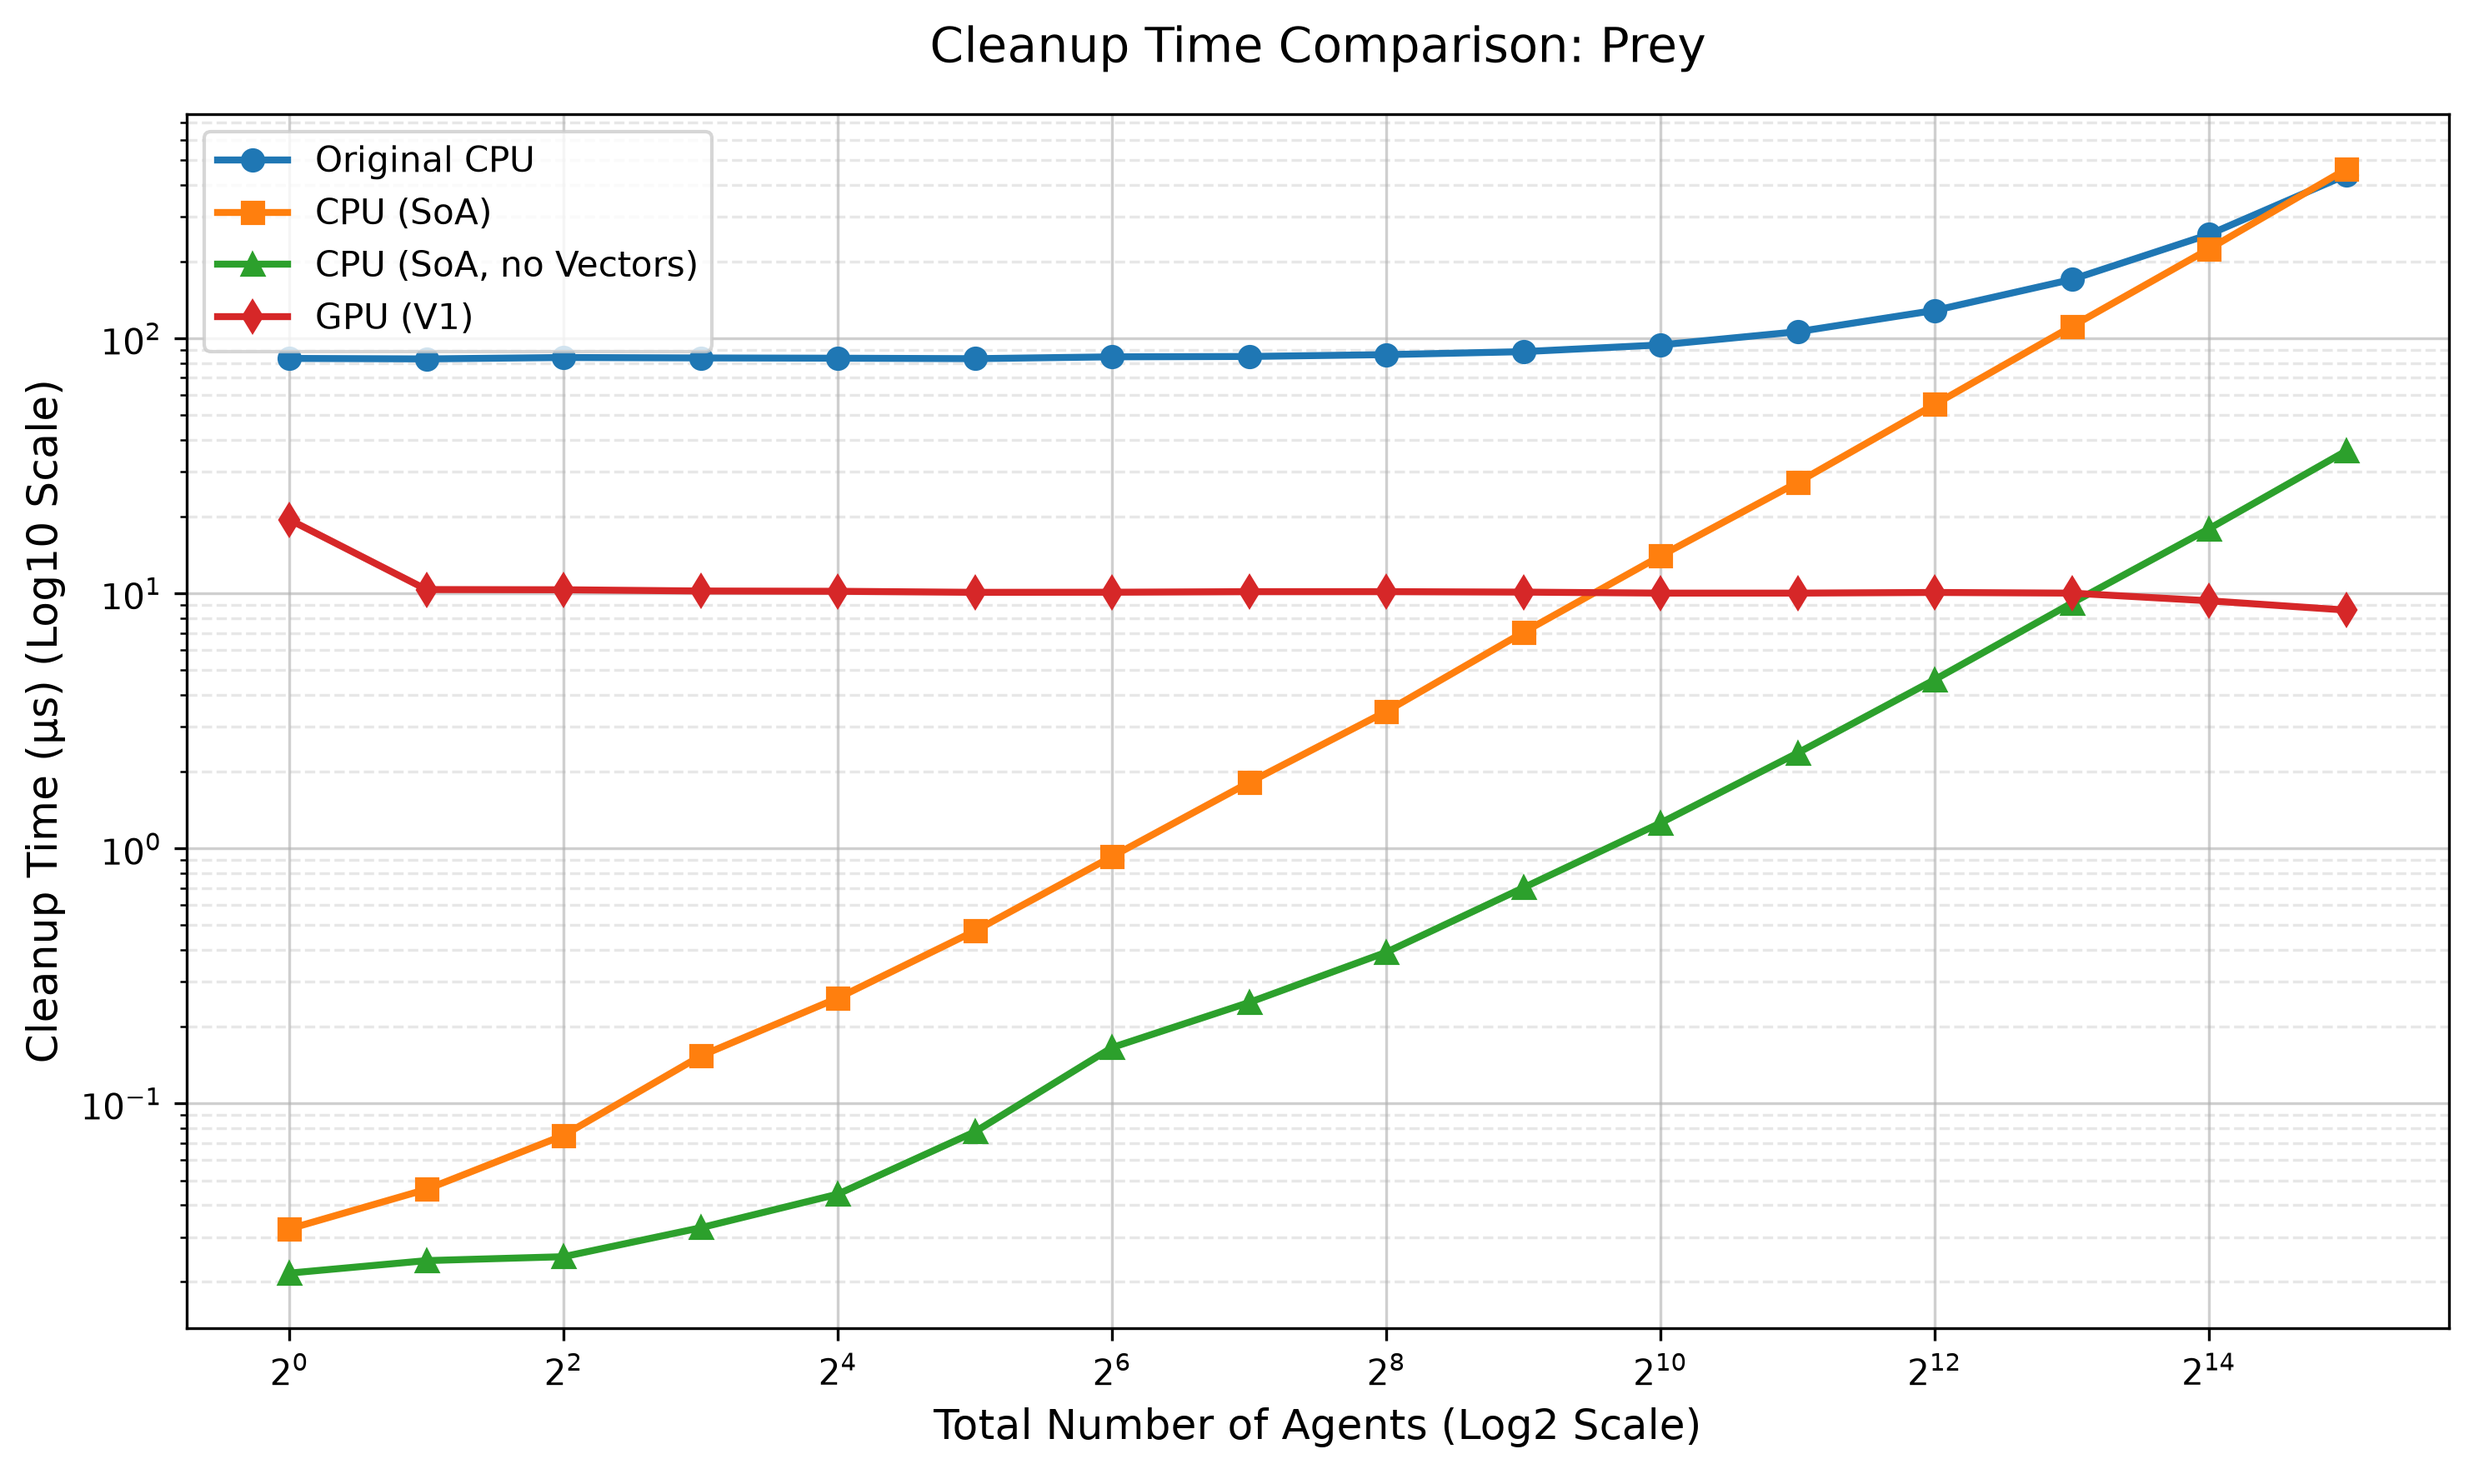
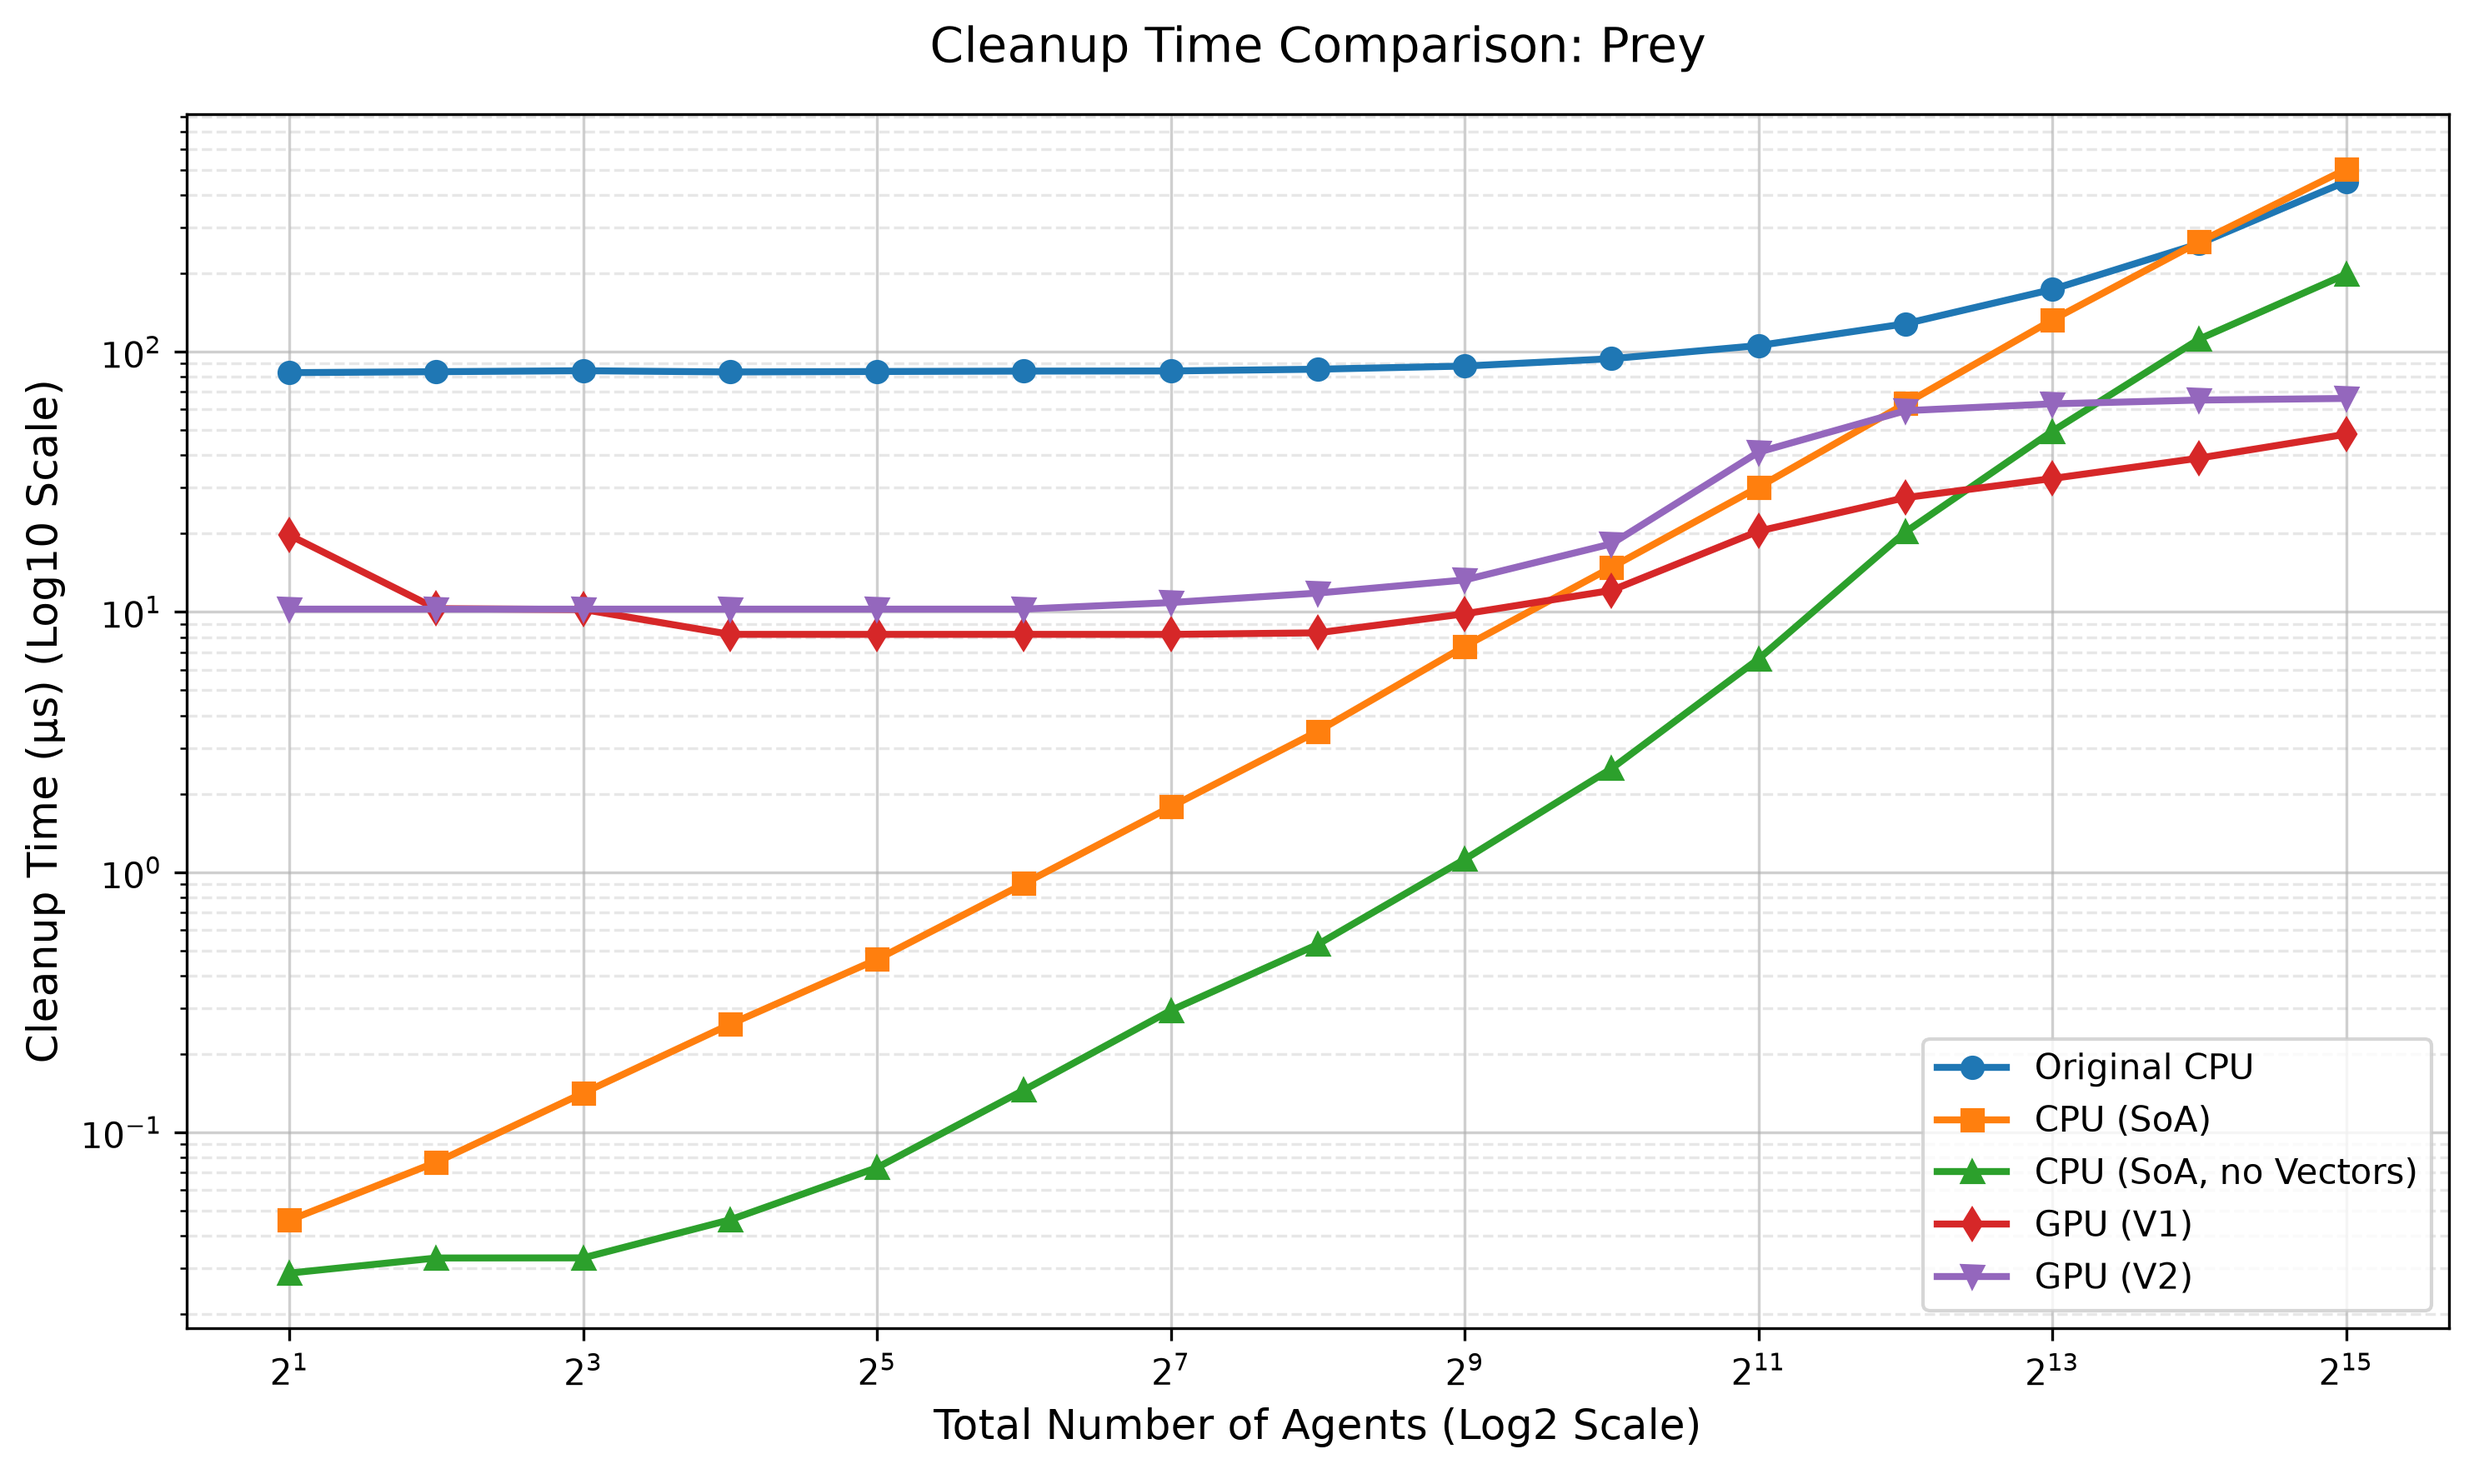
Profiled GPU V2

diff --git a/include/Core/Config.h b/include/Core/Config.h
@@ -26,7 +26,7 @@ constexpr bool REPLAY_MODE_ENABLED = false;
 // Enable to stop time when pressing R
 constexpr bool DEBUGGING_ENABLED = false;
 // Enable to run profiling tests on the simulation, which will output a CSV file with performance data
-constexpr bool PROFILING_ENABLED = false;
+constexpr bool PROFILING_ENABLED = true;
 
 
 /* ------------------- Simulation Settings ------------------ */
@@ -68,7 +68,7 @@ const float RANDOM_INJECTION_RATE = 0.20f; // minus the hof injection rate
 /* ------------------- World Settings ------------------ */
 
 // Starting agents
-constexpr int MAX_SWARM_CAPACITY = 30000;
+constexpr int MAX_SWARM_CAPACITY = 500000;
 constexpr int NUM_PREDATOR = 50;
 constexpr int NUM_PREY = 400;
 // Graveyard settings

diff --git a/include/structures/FoodLatticeData.h b/include/structures/FoodLatticeData.h
@@ -3,6 +3,13 @@
 
 using namespace std;
 
+struct ChunkSummary {
+        float comX;
+        float comY;
+        float totalFood;
+        float _pad;
+};
+
 struct FoodLatticeData{
     // Global data
     int num_chunks_x;
@@ -20,12 +27,6 @@ struct FoodLatticeData{
     int total_cells;
     float* foodGrid;
 
-    struct ChunkSummary {
-        float comX;
-        float comY;
-        float totalFood;
-        float _pad;
-    };
     ChunkSummary* chunkSummary;
 
     void allocate(int chunks_x, int chunks_y, int cells_x, int cells_y){

diff --git a/include/structures/Swarm.h b/include/structures/Swarm.h
@@ -204,7 +204,7 @@ struct SwarmData {
             CUDA_CHECK(cudaMemset(foodClosingVelocity, 0, capacity * sizeof(float)));
             CUDA_CHECK(cudaMemset(foodTangentialVelocity, 0, capacity * sizeof(float)));
             CUDA_CHECK(cudaMemset(energyReserve, 0, capacity * sizeof(float)));
-            thrust::device_ptr<float> chunk_ptr(cachedFoodChunk);
+            thrust::device_ptr<int> chunk_ptr(cachedFoodChunk);
             thrust::fill(chunk_ptr, chunk_ptr + capacity, -1);
         }
 

diff --git a/profiling/plot_graphs.py b/profiling/plot_graphs.py
@@ -17,7 +17,8 @@ FILES_TO_PLOT = {
     "Original CPU": "data/profiling_results_cpu_predatori.csv",
     "CPU (SoA)": "data/profiling_results_gpuready_cpu_predatori.csv",
     "CPU (SoA, no Vectors)": "data/profiling_results_cpu_soa_predatori.csv",
-    "GPU (V1)": "data/profiling_results_gpuV1_predatori.csv"
+    "GPU (V1)": "data/profiling_results_gpuV1_predatori.csv",
+    "GPU (V2)": "data/profiling_results_gpuV2_predatori.csv"
 }
 
 # ==========================================

diff --git a/include/Core/Physics.h b/include/Core/Physics.h
@@ -27,7 +27,7 @@ __host__ __device__ __forceinline__ ThoroidalDelta thoroidalDelta(float obsX, fl
     dx -= worldWidth * rintf(dx / worldWidth);
     dy -= worldHeight * rintf(dy / worldHeight);
 
-    return {dx, dy, dx * dx + dy * dy}
+    return {dx, dy, dx * dx + dy * dy};
 }
 
 // Returns all the relevant data for sensory processing - only called on enemies close enough
